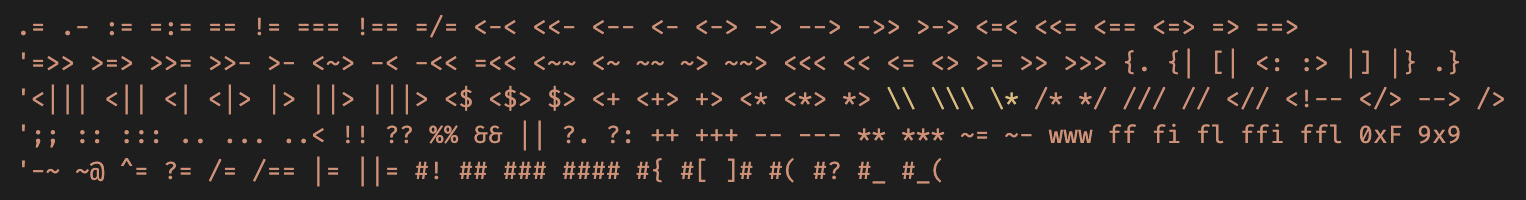
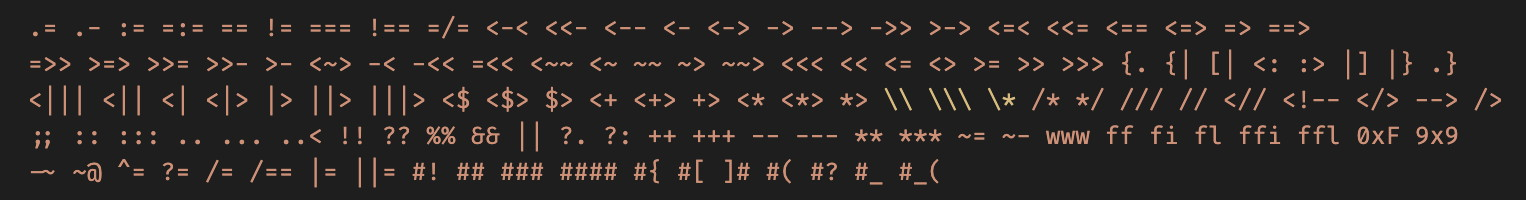
Start of changes for first non-preview release.

diff --git a/src/extension.ts b/src/extension.ts
@@ -4,7 +4,7 @@
 // This extension also replicates (and expands) the functionality provided by
 // vscode-Disable-Ligatures.
 
-import { getLigatureMatcher, resetConfiguration, readConfiguration, SelectionMode } from './configuration';
+import { ContextConfig, getLigatureMatcher, InternalConfig, readConfiguration, resetConfiguration, SelectionMode } from './configuration';
 import { registerCommand, showInfoMessage } from './extension-util';
 import { last as _last, processMillis } from 'ks-util';
 import { activate as scopeInfoActivate, deactivate as scopeInfoDeactivate, reloadGrammar } from './scope-info/scope-info';
@@ -121,11 +121,11 @@ export function activate(context: ExtensionContext): void {
 
     if (ligatureSuppression) {
       const started = processMillis();
-      const langConfig = readConfiguration(document.languageId);
-      const selectionMode = selectionModeOverride ?? langConfig.selectionMode;
-      const langLigatures = langConfig.ligatures;
-      const contexts = langConfig.contexts;
-      const langListedAreEnabled = langConfig.ligaturesListedAreEnabled;
+      const docLanguage = document.languageId;
+      console.log('docLanguage:', docLanguage);
+      const docLangConfig = readConfiguration(docLanguage);
+      let lastTokenLanguage: string;
+      let lastTokenConfig: InternalConfig;
       const matcher = getLigatureMatcher();
 
       for (let i = first; i <= last; ++i) {
@@ -140,6 +140,18 @@ export function activate(context: ExtensionContext): void {
           const scope = scopeInfoApi.getScopeAt(document, new Position(i, index));
           let category = scope.category;
           const specificScope = _last(scope.scopes);
+          const language = getTokenLanguage(docLanguage, specificScope);
+          let langConfig = docLangConfig;
+
+          if (language !== docLanguage) {
+            langConfig = (lastTokenConfig && lastTokenLanguage === language) ? lastTokenConfig :
+              lastTokenConfig = readConfiguration(lastTokenLanguage = language);
+          }
+
+          const selectionMode = selectionModeOverride ?? langConfig.selectionMode;
+          const langLigatures = langConfig.ligatures;
+          const contexts = langConfig.contexts;
+          const langListedAreEnabled = langConfig.ligaturesListedAreEnabled;
 
           // Did the matched ligature overshoot a token boundary?
           if (ligature.length > scope.text.length &&
@@ -170,13 +182,12 @@ export function activate(context: ExtensionContext): void {
             }
           }
 
-          const contextConfig = (langConfig.ligaturesByContext &&
-            (langConfig.ligaturesByContext[specificScope] ?? langConfig.ligaturesByContext[category]));
+          const contextConfig = findContextConfig(langConfig, specificScope, category);
           const contextLigatures = contextConfig?.ligatures ?? langLigatures;
           const listedAreEnabled = contextConfig?.ligaturesListedAreEnabled ?? langListedAreEnabled;
           const debug = globalDebug ?? contextConfig?.debug ?? langConfig.debug;
 
-          if (shortened || selected || contextLigatures.has(ligature) !== listedAreEnabled || !contexts.has(category)) {
+          if (shortened || selected || contextLigatures.has(ligature) !== listedAreEnabled || !matchesContext(contexts, specificScope, category)) {
             for (let j = 0; j < ligature.length; ++j)
               (debug ? debugBreaks : breaks).push(new Range(i, index + j, i, index + j + 1));
           }
@@ -198,6 +209,46 @@ export function activate(context: ExtensionContext): void {
     editor.setDecorations(highlightLigature, highlights);
     editor.setDecorations(allLigatures, background);
   }
+}
+
+function getTokenLanguage(docLanguage: string, scope: string): string {
+  const suffix = (/\.([^.]+)$/.exec(scope) ?? [])[1];
+
+  if (!suffix || !/^(html|xml)$/.test(docLanguage))
+    return docLanguage;
+
+  switch (suffix) {
+    case 'js': return 'javascript';
+    case 'css': return 'css';
+  }
+
+  return docLanguage;
+}
+
+function findContextConfig(config: InternalConfig, scope: string, category: string): ContextConfig {
+  const byContext = config.ligaturesByContext;
+
+  if (!byContext)
+    return undefined;
+
+  let match = byContext[category];
+
+  while (!match && scope && !(match = byContext[scope]))
+    scope = (/^(.+)\../.exec(scope) ?? [])[1];
+
+  return match;
+}
+
+function matchesContext(contexts: Set<String>, scope: string, category: string): boolean {
+  if (!contexts)
+    return false;
+
+  let matches = contexts.has(category);
+
+  while (!matches && scope && !(matches = contexts.has(scope)))
+    scope = (/^(.+)\../.exec(scope) ?? [])[1];
+
+  return matches;
 }
 
 function isValidDocument(document: TextDocument): boolean {

diff --git a/src/configuration.ts b/src/configuration.ts
@@ -18,6 +18,12 @@ interface LLConfiguration {
   selectionMode?: SelectionMode;
 }
 
+export interface ContextConfig {
+  debug: boolean;
+  ligatures: Set<string>;
+  ligaturesListedAreEnabled: boolean;
+}
+
 export interface InternalConfig {
   compactScopeDisplay: boolean;
   contexts: Set<string>;
@@ -25,25 +31,20 @@ export interface InternalConfig {
   ligatures: Set<string>;
   ligaturesListedAreEnabled: boolean;
   selectionMode: SelectionMode;
-
-  ligaturesByContext: Record<string, {
-    debug: boolean;
-    ligatures: Set<string>;
-    ligaturesListedAreEnabled: boolean;
-  }>;
+  ligaturesByContext: Record<string, ContextConfig>;
 }
 
 const baseLigatures = String.raw`
 
 .= .- := =:= == != === !== =/= <-< <<- <-- <- <-> -> --> ->> >-> <=< <<= <== <=> => ==>
-'=>> >=> >>= >>- >- <~> -< -<< =<< <~~ <~ ~~ ~> ~~> <<< << <= <> >= >> >>> {. {| [| <: :> |] |} .}
-'<||| <|| <| <|> |> ||> |||> <$ <$> $> <+ <+> +> <* <*> *> \\ \\\ \* /* */ /// // <// <!-- </> --> />
-';; :: ::: .. ... ..< !! ?? %% && || ?. ?: ++ +++ -- --- ** *** ~= ~- www ff fi fl ffi ffl 0xF 9x9
-'-~ ~@ ^= ?= /= /== |= ||= #! ## ### #### #{ #[ ]# #( #? #_ #_(
+=>> >=> >>= >>- >- <~> -< -<< =<< <~~ <~ ~~ ~> ~~> <<< << <= <> >= >> >>> {. {| [| <: :> |] |} .}
+<||| <|| <| <|> |> ||> |||> <$ <$> $> <+ <+> +> <* <*> *> \\ \\\ \* /* */ /// // <// <!-- </> --> />
+;; :: ::: .. ... ..< !! ?? %% && || ?. ?: ++ +++ -- --- ** *** ~= ~- www ff fi fl ffi ffl 0xF 9x9
+-~ ~@ ^= ?= /= /== |= ||= #! ## ### #### #{ #[ ]# #( #? #_ #_(
 
 `.trim().split(/\s+/);
 
-const baseDisabledLigatures = new Set<string>(['ff', 'fi', 'fl', 'ffi', 'ffl', '0x0', '9x9']);
+const baseDisabledLigatures = new Set<string>(['ff', 'fi', 'fl', 'ffi', 'ffl', '0xF', '9x9']);
 const baseLigatureContexts = new Set<string>(['operator', 'comment_marker', 'punctuation', 'number']);
 const baseLigaturesByContext = {
   number: {
@@ -53,14 +54,17 @@ const baseLigaturesByContext = {
   }
 };
 
-baseLigaturesByContext.number.ligatures.delete('0x0');
+baseLigaturesByContext.number.ligatures.delete('0xF');
 
 let defaultConfiguration: InternalConfig;
 const configurationsByLanguage = new Map<string, InternalConfig>();
 let globalLigatures: Set<string>;
 let globalMatchLigatures: RegExp;
 
-const escapeRegex = /[-[\]/{}()*+?.\\^$|]/g;
+// The \ before the second [ is considered unnecessary here by ESLine, but being left out
+// is an error for some regex parsers.
+// eslint-disable-next-line no-useless-escape
+const escapeRegex = /[-\[\]/{}()*+?.\\^$|]/g;
 
 export function resetConfiguration(): void {
   defaultConfiguration = undefined;

diff --git a/CHANGELOG.md b/CHANGELOG.md
@@ -1,3 +1,10 @@
+## 1.0.0
+
+* First non-preview release
+* Made TextMate scope specification more flexible
+* Handles CSS and JavaScript nested within HTML using proper corresponding rules.
+* Fixed some ligatures which were not being matched
+
 ## 0.0.2
 
 * Update bad choice of Marketplace background color. (Yes, even that requires a changed version number!)
